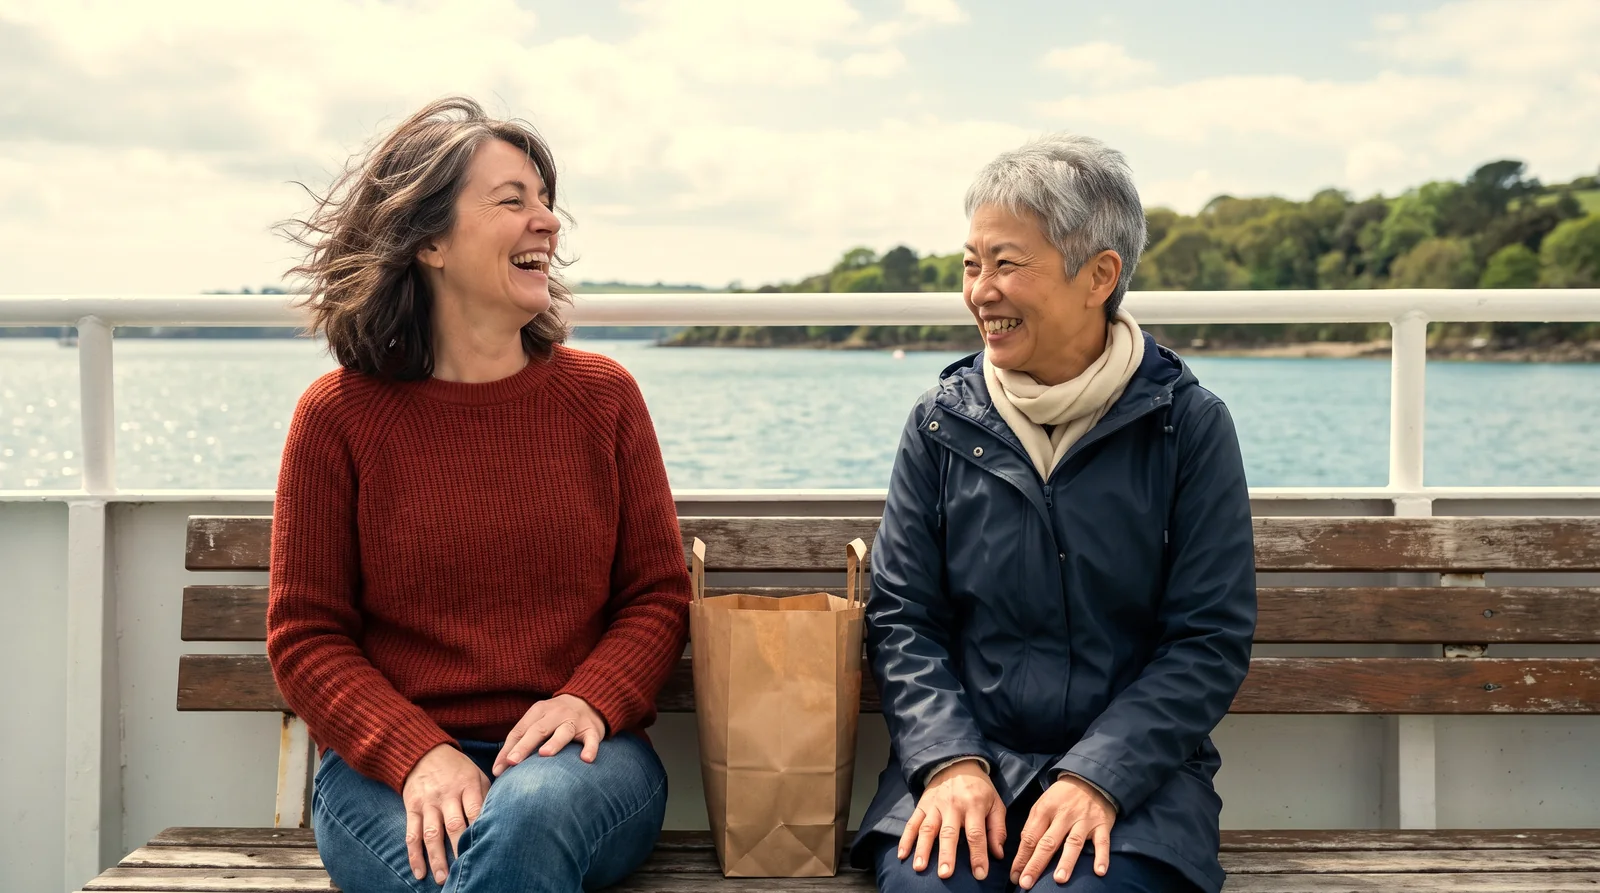
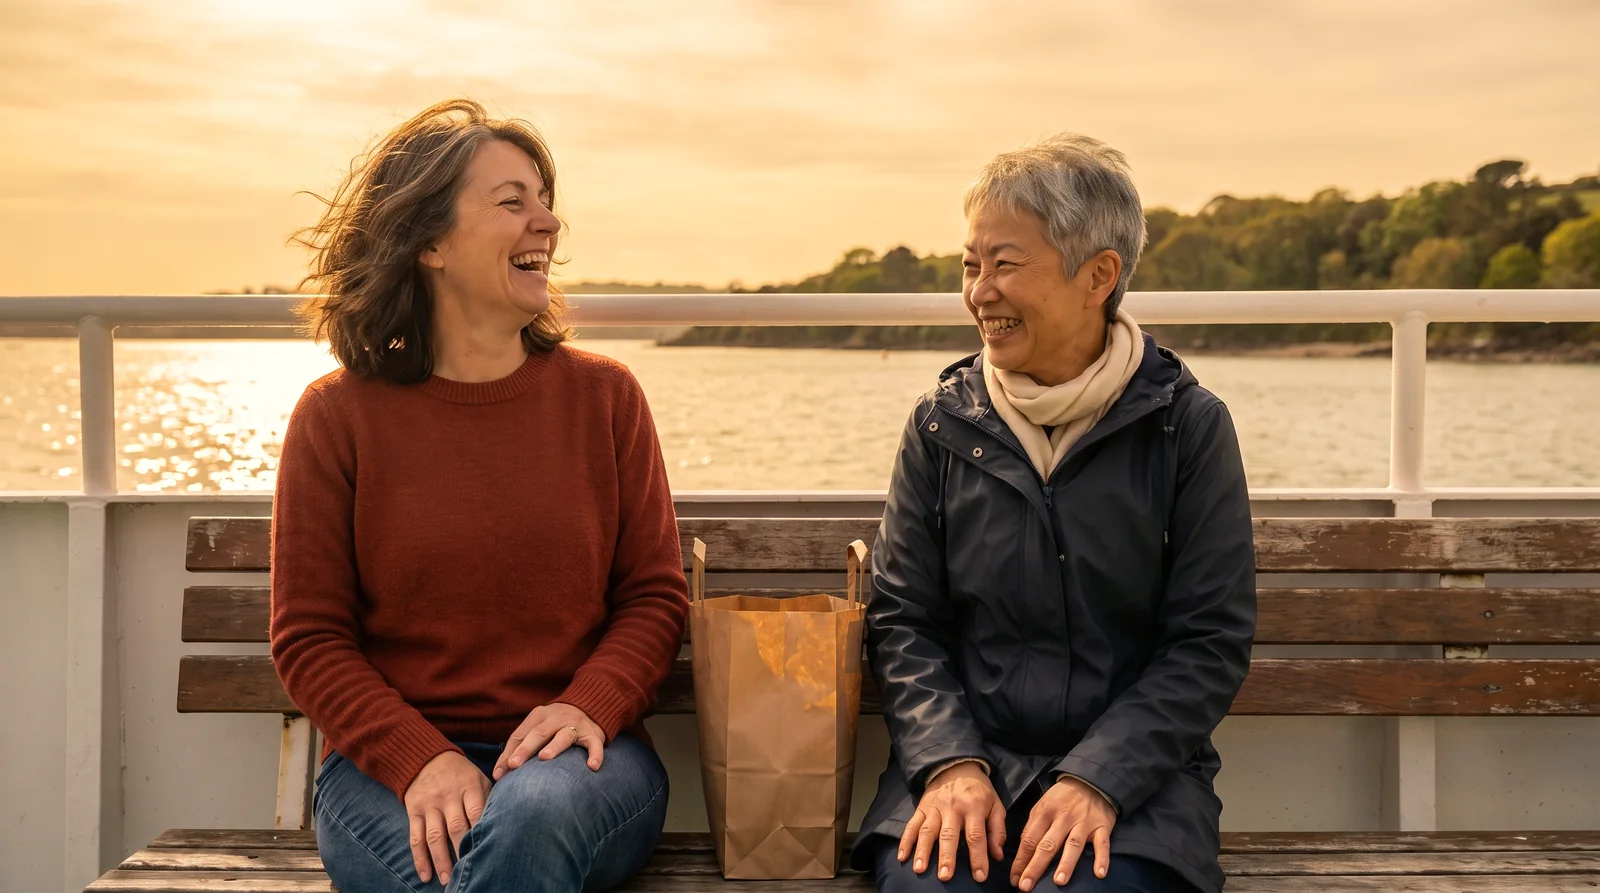
Photos: isyourmagne belonging reshot (matching jumper, warmer light)

diff --git a/blog-pipeline/photos-completed/is-your-magnesium-what-the-label-says.md b/blog-pipeline/photos-completed/is-your-magnesium-what-the-label-says.md
@@ -4,7 +4,7 @@ post_title: "Is Your Magnesium Really What the Label Says? (2026)"
 slug: is-your-magnesium-what-the-label-says
 status: done
 cameron_processed: false
-note: "SHOPPER TRACK, shot on Higgsfield nano-banana-pro at native 2752x1536 and delivered at 1600px webp. ALL 14 CHECKS WRITTEN OUT PER FRAME IN THE REPLY BEFORE COMMITTING. THE PRODUCT WAS LOOKED UP FIRST on the Nutricost site: a round white bottle with a royal blue screw cap, a white label with nutricost at the top, Magnesium Glycinate in big navy letters and a blue and orange stripe down the right edge. That front image was used as the product reference and the label kept to those words only. ONE woman across the set: white, about 53, shoulder-length dark brown hair with silver streaks, rust red knitted jumper, jeans. THE ROOM is her real kitchen: deep teal shaker lower cabinets with brass knobs and cup pulls, warm white closed wall cupboards with brass knobs, honey oak worktop crowded with clementines, a loaf on a bread board, a crock of wooden spoons, thyme, a striped tea towel, dusty pink handmade tiles. Hero built first and used to lock the room for the villain, turning point and freedom. Hero: her twisting the cap off at the counter in the evening, smiling, her nightly routine. Villain: the bottle alone on the worktop with three capsules beside it, late night, cold flat light. Turning point: her setting the bottle down and already looking out of the window, full-height patterned linen curtains. Belonging, a new setting: two clearly different women in their fifties laughing on a bench on a ferry deck, a plain kraft paper bag between them, hands at rest. Freedom: morning sun after a good night, her slicing bread and laughing, no bottle anywhere. FIXED TO PASS THE LIST: small print on the hero label painted out after an edit pass ignored it; the hero window had a half-height cafe curtain so the frame was cropped to leave it out; a tiny mark on the bread knife painted out; the hero graded slightly cooler and the belonging frame warmer so the light runs villain coldest, hero, turning point, belonging, freedom warmest."
+note: "SHOPPER TRACK, shot on Higgsfield nano-banana-pro at native 2752x1536 and delivered at 1600px webp. ALL 14 CHECKS WRITTEN OUT PER FRAME IN THE REPLY BEFORE COMMITTING. THE PRODUCT WAS LOOKED UP FIRST on the Nutricost site: a round white bottle with a royal blue screw cap, a white label with nutricost at the top, Magnesium Glycinate in big navy letters and a blue and orange stripe down the right edge. That front image was used as the product reference and the label kept to those words only. ONE woman across the set: white, about 53, shoulder-length dark brown hair with silver streaks, rust red knitted jumper, jeans. THE ROOM is her real kitchen: deep teal shaker lower cabinets with brass knobs and cup pulls, warm white closed wall cupboards with brass knobs, honey oak worktop crowded with clementines, a loaf on a bread board, a crock of wooden spoons, thyme, a striped tea towel, dusty pink handmade tiles. Hero built first and used to lock the room for the villain, turning point and freedom. Hero: her twisting the cap off at the counter in the evening, smiling, her nightly routine. Villain: the bottle alone on the worktop with three capsules beside it, late night, cold flat light. Turning point: her setting the bottle down and already looking out of the window, full-height patterned linen curtains. Belonging, a new setting: two clearly different women in their fifties laughing on a bench on a ferry deck, a plain kraft paper bag between them, hands at rest. Freedom: morning sun after a good night, her slicing bread and laughing, no bottle anywhere. FIXED TO PASS THE LIST: small print on the hero label painted out after an edit pass ignored it; the hero window had a half-height cafe curtain so the frame was cropped to leave it out; a tiny mark on the bread knife painted out; the hero graded slightly cooler and the belonging frame warmer so the light runs villain coldest, hero, turning point, belonging, freedom warmest. RECHECK 2026-10-03 (Shannon asked if all 5 were run): belonging was reshot because her jumper was a chunky rib knit instead of the fine knit in the kitchen (check 12) and the frame still measured cooler than the hero (check 13); now the same fine rust jumper in warm golden late-afternoon light."
 ---
 
 ### isyourmagne-hero-v1
